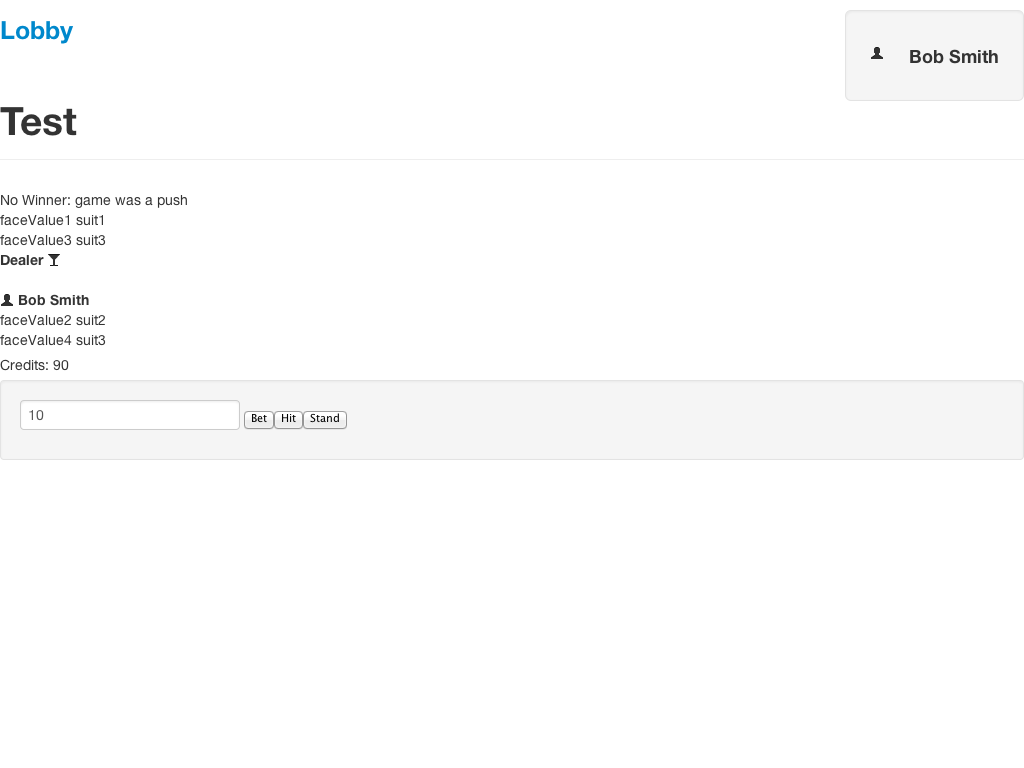
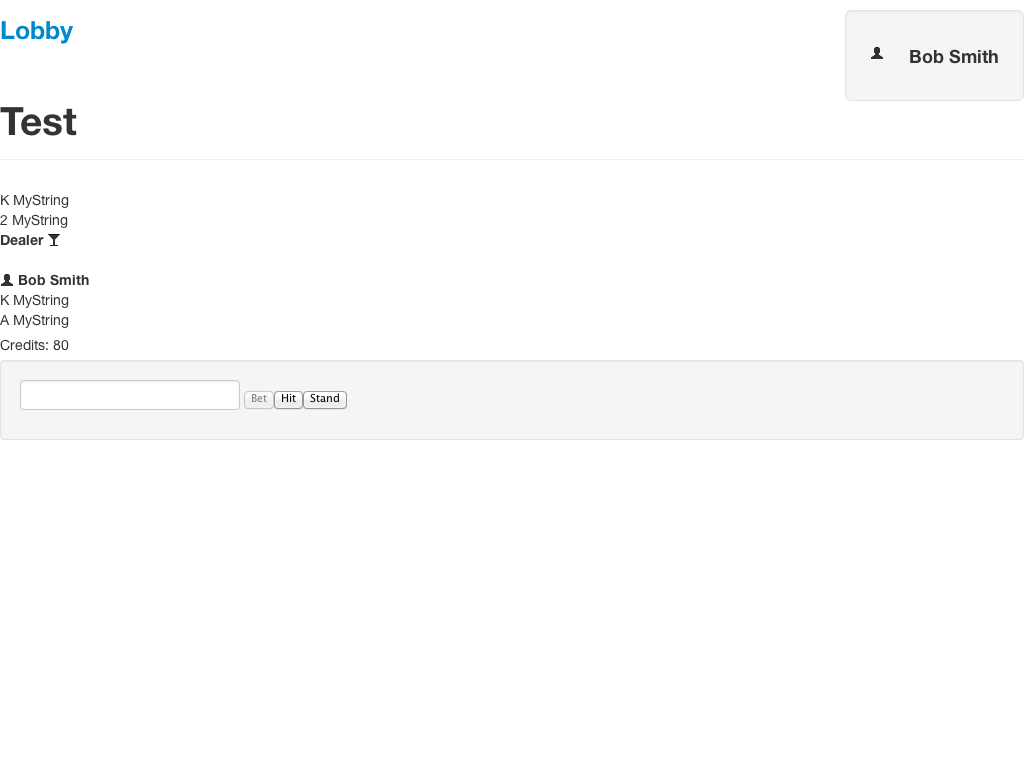
Acceptance test for player payouts now passing.

Changed region(s): [[0.0, 0.25, 0.1875, 0.5], [0.2188, 0.5, 0.3438, 0.5625], [0.0312, 0.5312, 0.0625, 0.5625]]

diff --git a/features/step_definitions/game_page_steps.rb b/features/step_definitions/game_page_steps.rb
@@ -115,10 +115,11 @@ Then (/^wait$/) do
 end
 
 When (/^I have won a hand$/) do
+  Card.destroy_all()
   Fabricate(:card, faceValue: "K")
+  Fabricate(:card, faceValue: "K")
+  Fabricate(:card, faceValue: "2")
   Fabricate(:card, faceValue: "A")
-  Fabricate(:dealer_cards, faceValue: "K", game_id: @game.id)
-  Fabricate(:dealer_cards, faceValue: "7", game_id: @game.id)
   step "I make a bet of 20"
   step "I hit the bet button"
   step "I hit the Stand button"
@@ -126,6 +127,7 @@ When (/^I have won a hand$/) do
 end
 
 Then (/^I should receive a 2 to 1 payout of my bet$/) do
+  sleep 2
   @user.reload
   @user.credits.should eq(120)
 end
